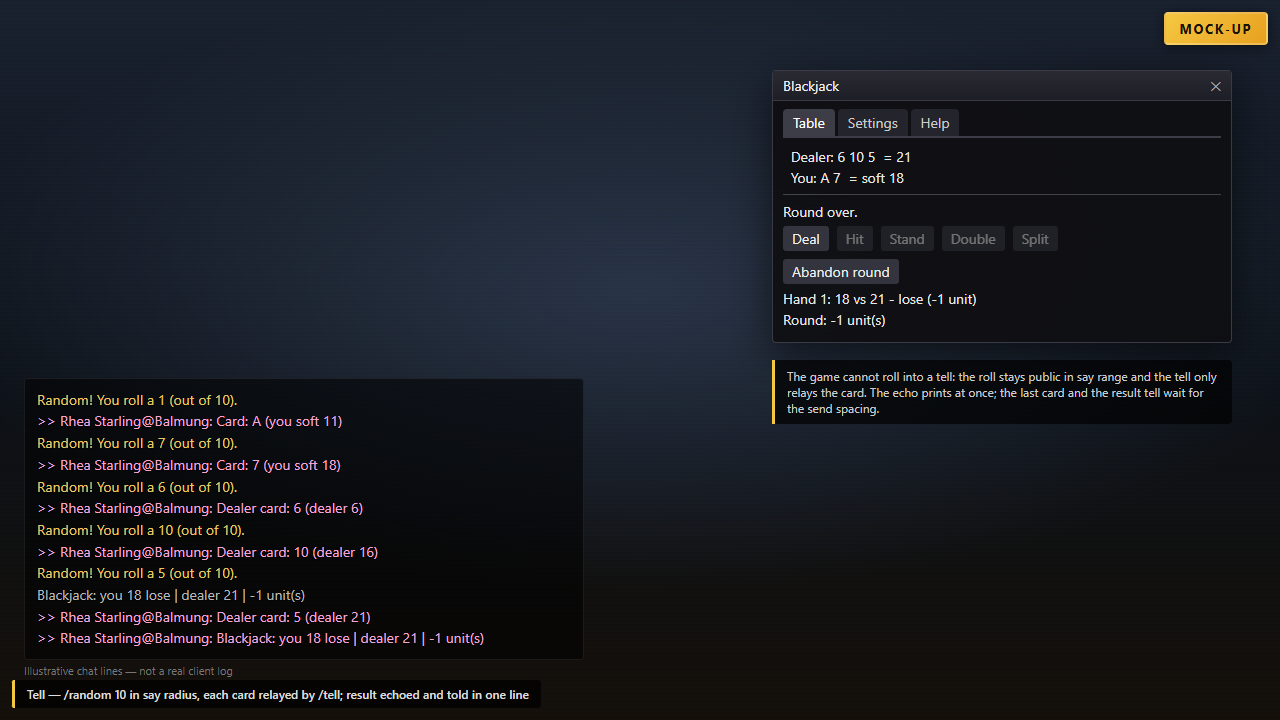
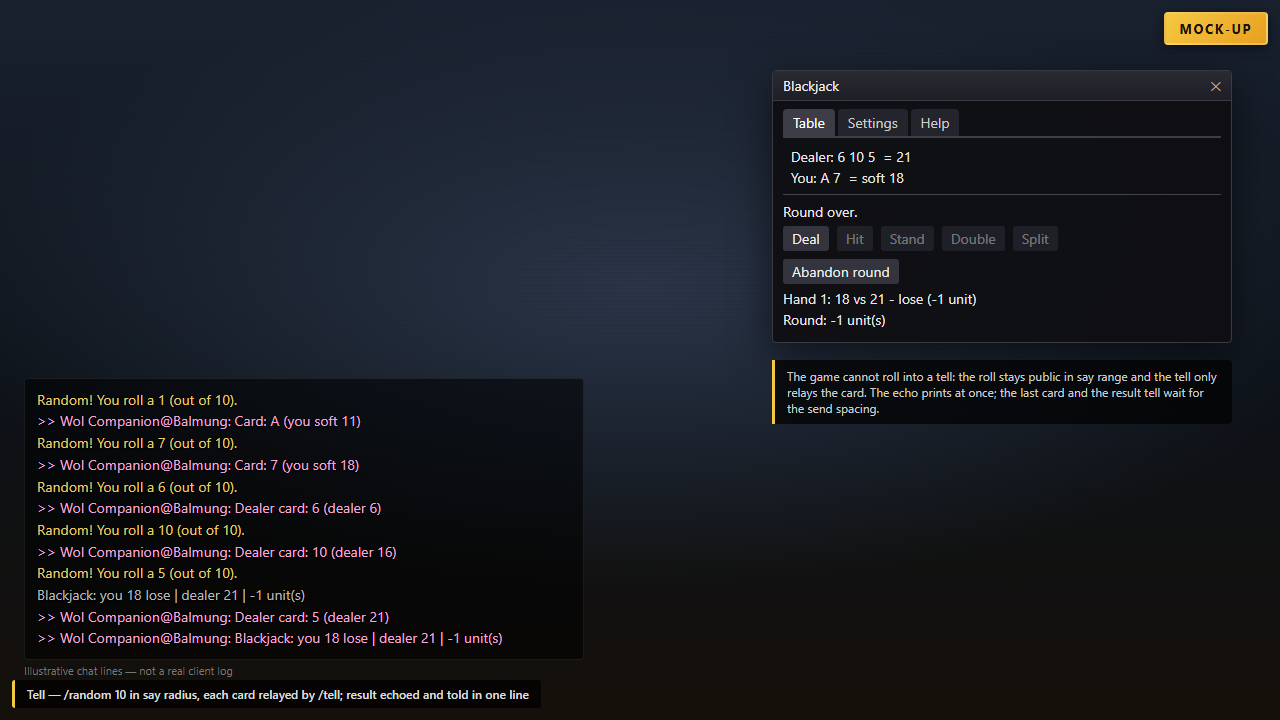
docs: refresh mock-up media to match current code

diff --git a/docs/screenshots/src/05-random-chat-result.html b/docs/screenshots/src/05-random-chat-result.html
@@ -11,17 +11,17 @@
     <div class="scene-label">Tell — /random 10 in say radius, each card relayed by /tell; result echoed and told in one line</div>
     <div class="chat-panel">
       <div class="chat-line random">Random! You roll a 1 (out of 10).</div>
-      <div class="chat-line tell">&gt;&gt; Rhea Starling@Balmung: Card: A (you soft 11)</div>
+      <div class="chat-line tell">&gt;&gt; Wol Companion@Balmung: Card: A (you soft 11)</div>
       <div class="chat-line random">Random! You roll a 7 (out of 10).</div>
-      <div class="chat-line tell">&gt;&gt; Rhea Starling@Balmung: Card: 7 (you soft 18)</div>
+      <div class="chat-line tell">&gt;&gt; Wol Companion@Balmung: Card: 7 (you soft 18)</div>
       <div class="chat-line random">Random! You roll a 6 (out of 10).</div>
-      <div class="chat-line tell">&gt;&gt; Rhea Starling@Balmung: Dealer card: 6 (dealer 6)</div>
+      <div class="chat-line tell">&gt;&gt; Wol Companion@Balmung: Dealer card: 6 (dealer 6)</div>
       <div class="chat-line random">Random! You roll a 10 (out of 10).</div>
-      <div class="chat-line tell">&gt;&gt; Rhea Starling@Balmung: Dealer card: 10 (dealer 16)</div>
+      <div class="chat-line tell">&gt;&gt; Wol Companion@Balmung: Dealer card: 10 (dealer 16)</div>
       <div class="chat-line random">Random! You roll a 5 (out of 10).</div>
       <div class="chat-line echo">Blackjack: you 18 lose | dealer 21 | -1 unit(s)</div>
-      <div class="chat-line tell">&gt;&gt; Rhea Starling@Balmung: Dealer card: 5 (dealer 21)</div>
-      <div class="chat-line tell">&gt;&gt; Rhea Starling@Balmung: Blackjack: you 18 lose | dealer 21 | -1 unit(s)</div>
+      <div class="chat-line tell">&gt;&gt; Wol Companion@Balmung: Dealer card: 5 (dealer 21)</div>
+      <div class="chat-line tell">&gt;&gt; Wol Companion@Balmung: Blackjack: you 18 lose | dealer 21 | -1 unit(s)</div>
     </div>
     <div class="chat-hint">Illustrative chat lines — not a real client log</div>
     <div class="imgui-window" style="top: 70px; right: 48px; width: 460px;">

diff --git a/docs/screenshots/src/03-settings.html b/docs/screenshots/src/03-settings.html
@@ -24,7 +24,7 @@
         <div class="field-row"><span class="checkbox-box"></span><span>Alliance</span></div>
         <div class="field-row"><span class="checkbox-box">✓</span><span>Tell</span></div>
         <div class="sep"></div>
-        <div class="field-row"><div class="combo input">Rhea Starling@Balmung</div><span>Tell target</span></div>
+        <div class="field-row"><div class="combo input">Wol Companion@Balmung</div><span>Tell target</span></div>
         <div class="sep"></div>
         <div class="t">Pacing</div>
         <div class="field-row"><div class="slider"><div class="grab" style="left: calc(0% * 0.94)"></div><span>2</span></div><span>Seconds between sends</span></div>
